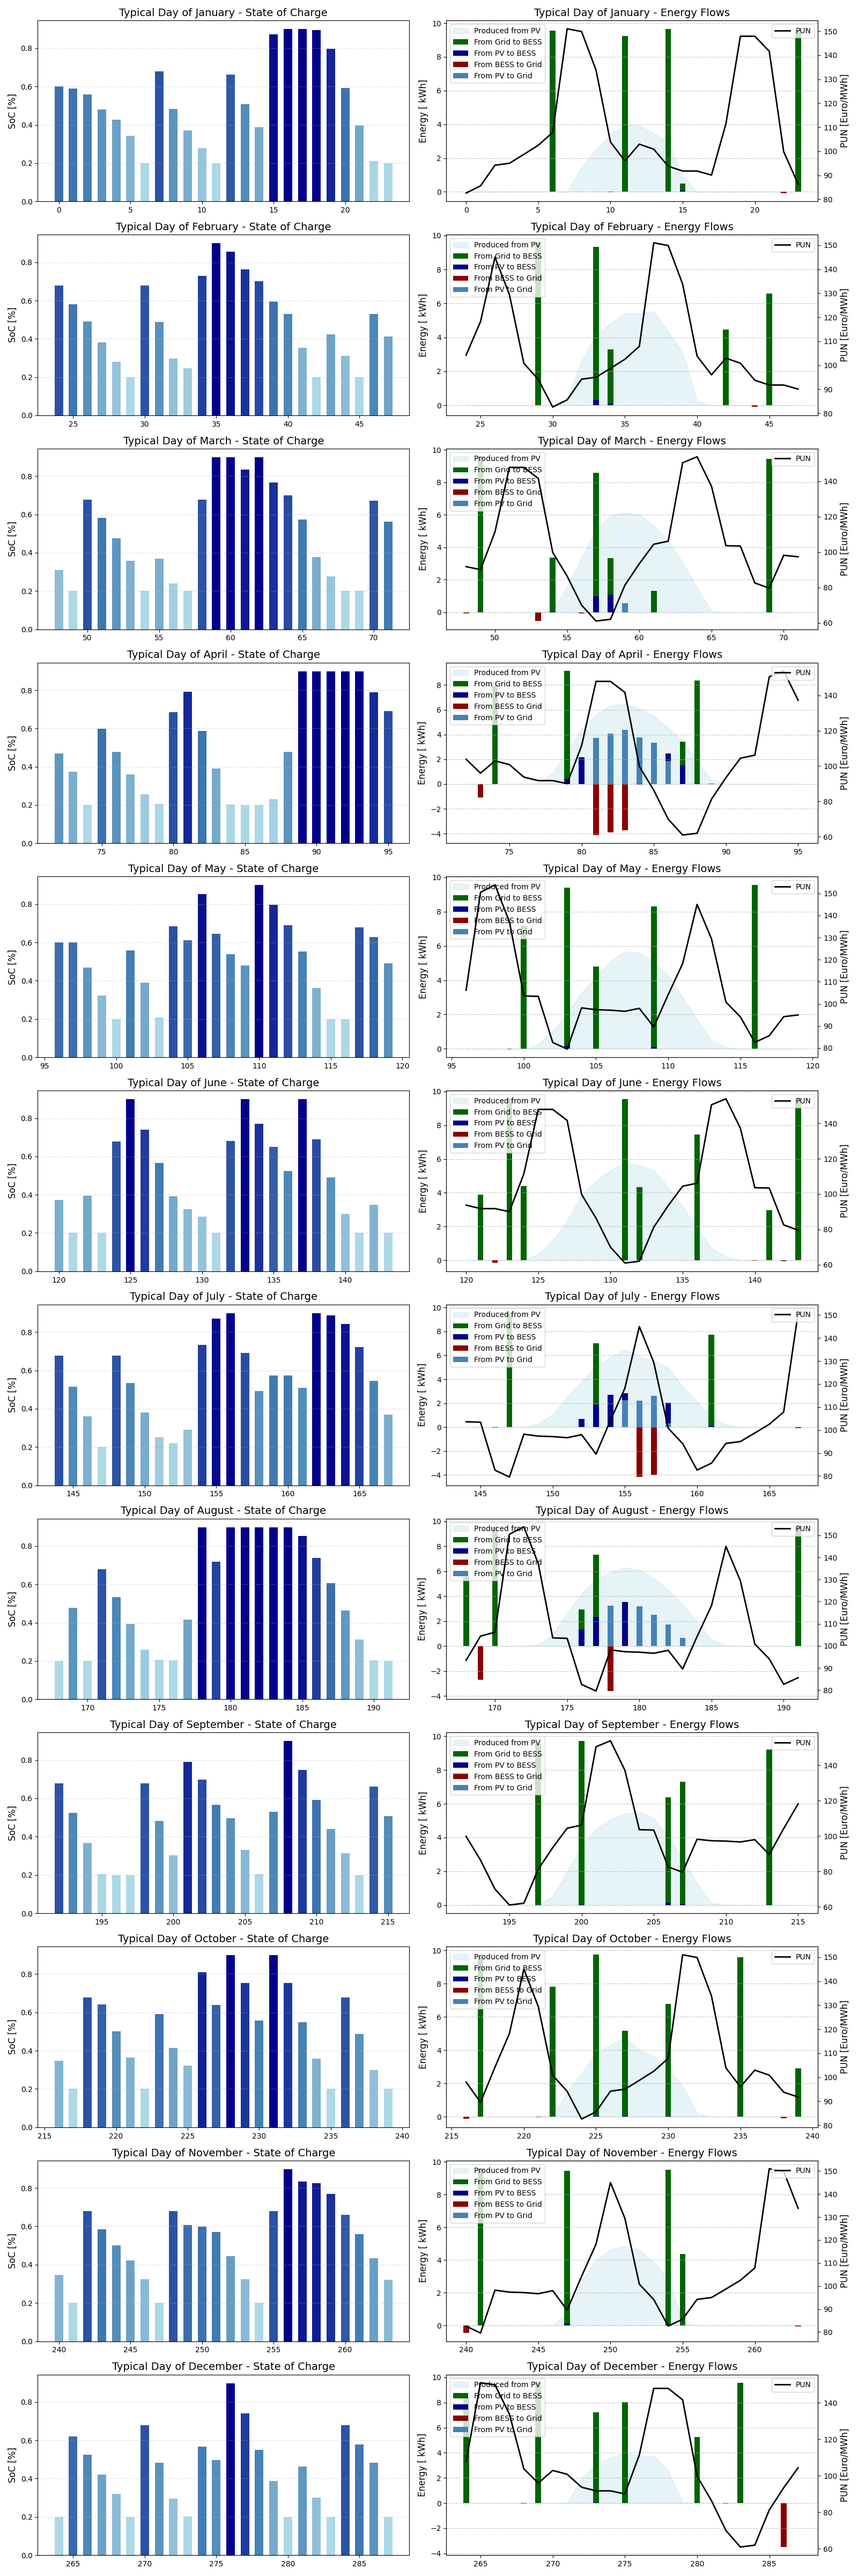
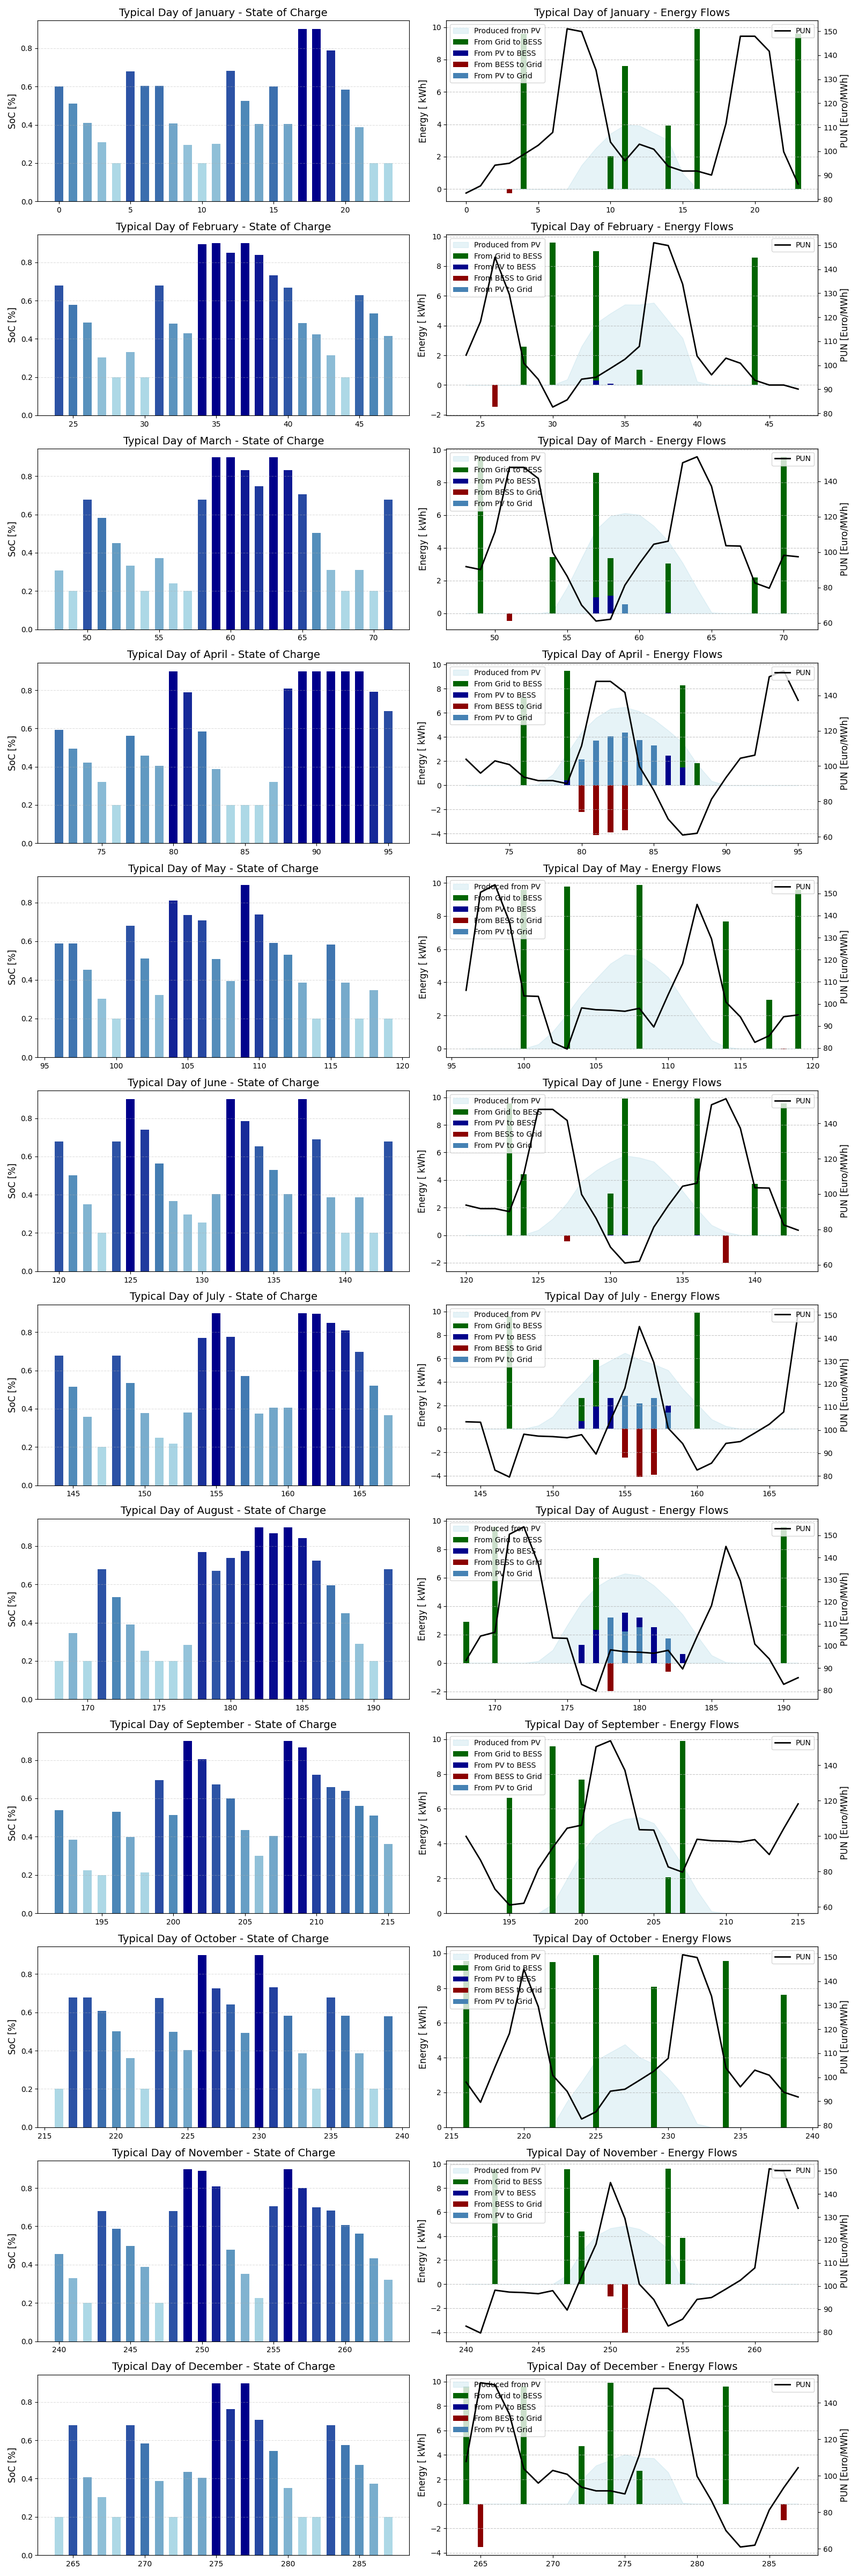
Very significant code updates (smaller ones)

diff --git a/bess_optimization/short_simulation/configuration_s.py b/bess_optimization/short_simulation/configuration_s.py
@@ -16,10 +16,8 @@ from Economic_parameters_s import time_window
 from pymoo.termination.robust import RobustTermination
 from pymoo.termination.xtol import DesignSpaceTermination
 from pymoo.algorithms.moo.nsga3 import NSGA3
-from pymoo.algorithms.moo.nsga2 import NSGA2
 from pymoo.algorithms.moo.spea2 import SPEA2
 from pymoo.algorithms.moo.unsga3 import UNSGA3
-from pymoo.algorithms.moo.rnsga3 import RNSGA3
 from pymoo.operators.crossover.sbx import SBX
 from pymoo.operators.mutation.pm import PM
 from pymoo.operators.sampling.rnd import FloatRandomSampling
@@ -30,6 +28,9 @@ from pymoo.core.termination import TerminateIfAny
 from pymoo.termination import get_termination
 from BESS_model_s import charge_rate_interpolated_func, discharge_rate_interpolated_func
 from pymoo.config import Config
+from utils import CustomSampling
+from Economic_parameters_s import PUN_timeseries_buy
+from pymoo.operators.survival.rank_and_crowding import RankAndCrowding
 Config.warnings['not_compiled'] = False
 
 # IDENTIFICATION OF MAX CHARGE AND DISCHARGE BESS CAPABILITY
@@ -57,7 +58,7 @@ time_window = time_window
 soc_0 = soc
 
 # 3) DEFINE POPULATION SIZE USED TO EXPLORE THE OPTIMIZATION DOMAIN
-pop_size = 200
+pop_size = 20
 
 # 4) DEFINE NUMBER OF ELEMENTS INIZIALIZED BY THE ALGORITHM
 n_var = time_window * 2
@@ -72,11 +73,12 @@ xl = [-max_discharge] * time_window + [0.0] * time_window
 xu = [max_charge] * time_window + [+1.0] * time_window
 
 # 8) DEFINE NUMBER OF GENERATIONS
-n_gen = 2000
+n_gen = 3000
 
 # 8-bis) DEFINE TOLERANCE
-tolerance = 0.00000000000001
-period = 100
+tolerance = 0.01
+period = 50
+seed = 42
 
 # 9) DEFINITION OF THE TERMINATION CRITERIA
 termination1 = get_termination("n_gen", n_gen)
@@ -84,7 +86,7 @@ termination2 = RobustTermination(DesignSpaceTermination(tol=tolerance), period=p
 termination = TerminateIfAny(termination1, termination2)
 
 # 10) DEFINITION OF THE REFERENCE DIRECTION
-ref_dirs = get_reference_directions("das-dennis", n_obj, n_partitions=n_obj * 4)
+ref_dirs = get_reference_directions("das-dennis", n_obj, n_partitions=n_obj*8)
 
 # DEFINE ETA FOR CROSSOVER
 eta_crossover = 1
@@ -92,11 +94,11 @@ eta_mutation = 3
 
 # DEFINE ETA FOR MUTATION
 prob_crossover = 1.0
-prob_mutation = 0.8
-n_offsprings = pop_size
+prob_mutation = 0.9
+n_offsprings = 200
 
 # 11) ALGORITHM SELECTION
-algorithm_type = "UNSGA3"  # Change this to "NSGA2", "SPEA2", "RNSGA3", "UNSGA3", etc. to test different algorithms
+algorithm_type = "UNSGA3"  # Change this to "SPEA2", "NSGA3, "UNSGA3", etc. to test different algorithms
 
 
 # ALGORITHM INITIALIZATION
@@ -104,30 +106,24 @@ if algorithm_type == "NSGA3":
     algorithm = NSGA3(
         pop_size=pop_size,
         ref_dirs=ref_dirs,
-        sampling=FloatRandomSampling(),
-        selection=TournamentSelection(),
-        crossover=SBX(eta=eta_crossover, prob=prob_crossover),
-        mutation=PM(eta=eta_mutation, prob=prob_mutation),
-        eliminate_duplicates=True,
-        n_offsprings = n_offsprings
-    )
-elif algorithm_type == "NSGA2":
-    algorithm = NSGA2(
-        pop_size=pop_size,
-        sampling=FloatRandomSampling(),
+        sampling=LatinHypercubeSampling(),
         selection=TournamentSelection(func_comp=comp_by_cv_then_random),
         crossover=SBX(eta=eta_crossover, prob=prob_crossover),
         mutation=PM(eta=eta_mutation, prob=prob_mutation),
-        eliminate_duplicates=True
+        eliminate_duplicates=True,
+        seed=seed,
+        n_offsprings = n_offsprings
     )
+
 elif algorithm_type == "SPEA2":
     algorithm = SPEA2(
         pop_size=pop_size,
-        sampling=FloatRandomSampling(),
+        sampling=LatinHypercubeSampling(),
         selection=TournamentSelection(func_comp=comp_by_cv_then_random),
         crossover=SBX(eta=eta_crossover, prob=prob_crossover),
         mutation=PM(eta=eta_mutation, prob=prob_mutation),
         eliminate_duplicates=True,
+        seed=seed,
         n_offsprings = n_offsprings
     )
 elif algorithm_type == "UNSGA3":
@@ -139,7 +135,9 @@ elif algorithm_type == "UNSGA3":
         crossover=SBX(eta=eta_crossover, prob=prob_crossover),
         mutation=PM(eta=eta_mutation, prob=prob_mutation),
         eliminate_duplicates=True,
-        n_offsprings = n_offsprings
+        seed=seed,
+        n_offsprings = n_offsprings,
+
     )
 else:
     raise ValueError(f"Algorithm '{algorithm_type}' is not recognized.")

diff --git a/bess_optimization/short_simulation/utils.py b/bess_optimization/short_simulation/utils.py
@@ -10,6 +10,7 @@ BESS Optimization using NSGA-III Algorithm
     __license__ = "MIT"
 
 Last Update of current code: 27/02/2025 """
+import statistics
 
 import ExcelOpener_s
 import Interpolator_s
@@ -61,5 +62,32 @@ class BESS:
 
         # Return the interpolated functions for charge and discharge rates.
         return charge_rate_interpolated_func, discharge_rate_interpolated_func
+
+
+def CustomSampling(energy_price, max_charge, max_discharge):
+
+    import numpy as np
+
+    energy_price = np.array(energy_price)
+    mean_price = np.mean(energy_price)  # Use numpy's mean
+    n = len(energy_price)
+
+    # Initialize X with double length
+    X = np.zeros(2 * n)
+
+    # First half: Charge/discharge logic
+    for i in range(n):
+        if energy_price[i] > mean_price * 1.2:
+            X[i] = max_discharge
+        elif energy_price[i] < mean_price * 0.8:
+            X[i] = max_charge
+        else:
+            X[i] = 0.0
+
+    # Second half: All 1.0 values
+    X[n:] = 1.0
+
+    return X
+
 
 

diff --git a/bess_optimization/short_simulation/objective_function_s.py b/bess_optimization/short_simulation/objective_function_s.py
@@ -114,6 +114,7 @@ class Revenues(ElementwiseProblem):
                                                               np.maximum((soc_max - self.soc[i]) * size, 0.0))
 
                 assert self.charged_energy_from_BESS[i] >= 0, f"Charged energy into BESS is negative. {self.c_d_timeseries[i]}\n\n {self.c_func(self.soc[i])}\n\n {soc_max-self.soc[i]}"
+
                 self.discharged_energy_from_BESS[i] = 0
 
             elif self.c_d_timeseries[i] < 0:
